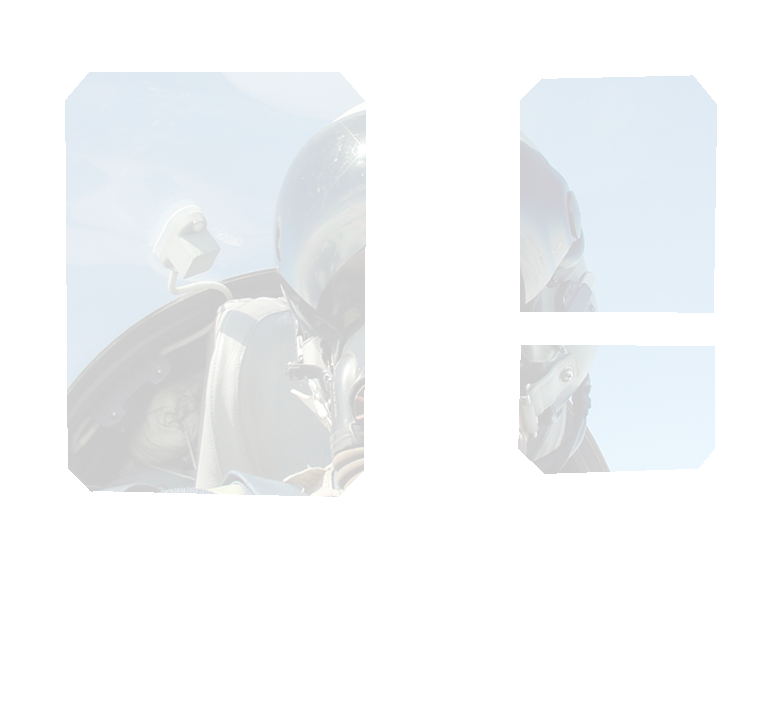
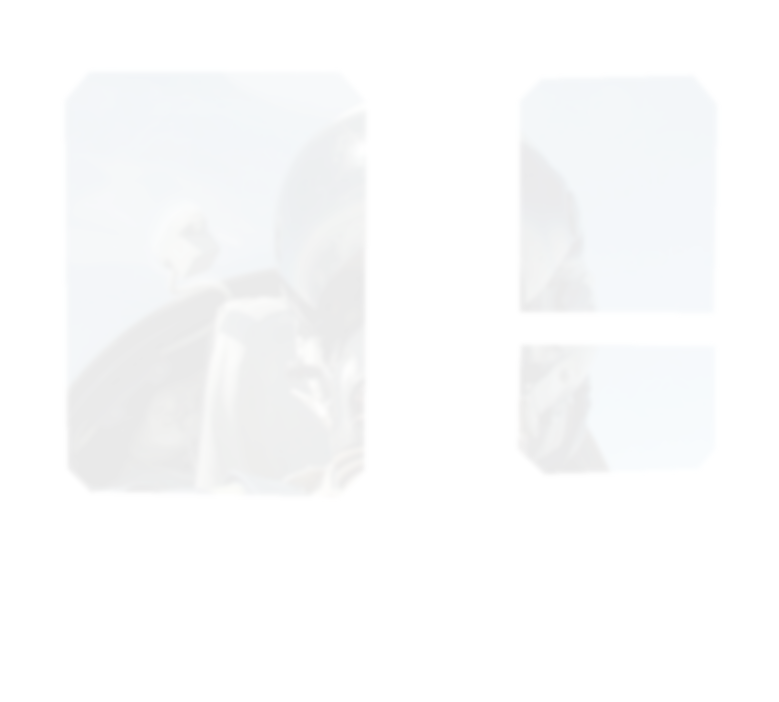
-l debug and IFEI image change
Loglevel debug added to the projects.  Cascade Triggers true on autobinding and IFEI reflection PNG muted

Changed region(s): [[0.0616, 0.1795, 0.4929, 0.7179], [0.647, 0.4786, 0.801, 0.688], [0.647, 0.2094, 0.7702, 0.4487]]

diff --git a/Helios/CompositeVisual.cs b/Helios/CompositeVisual.cs
@@ -193,6 +193,8 @@ namespace GadrocsWorkshop.Helios
         {
             HeliosBinding binding = new HeliosBinding(trigger, action);
 
+            binding.BypassCascadingTriggers = true;
+
             if (action.ActionRequiresValue && (ConfigManager.ModuleManager.CanConvertUnit(trigger.Unit, action.Unit)))
             {
                 binding.ValueSource = BindingValueSources.TriggerValue;
